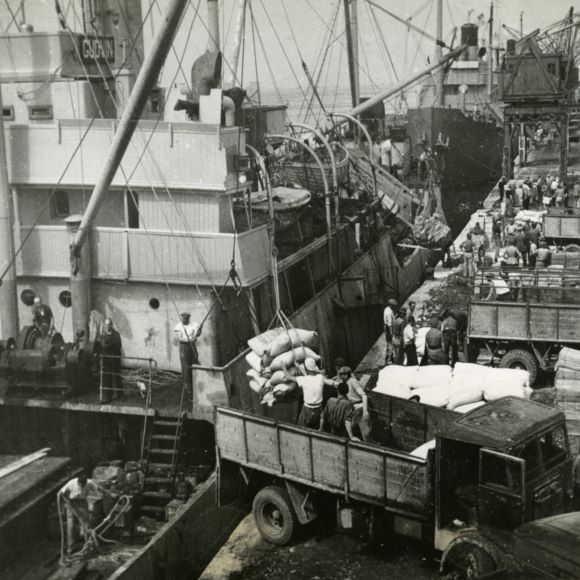
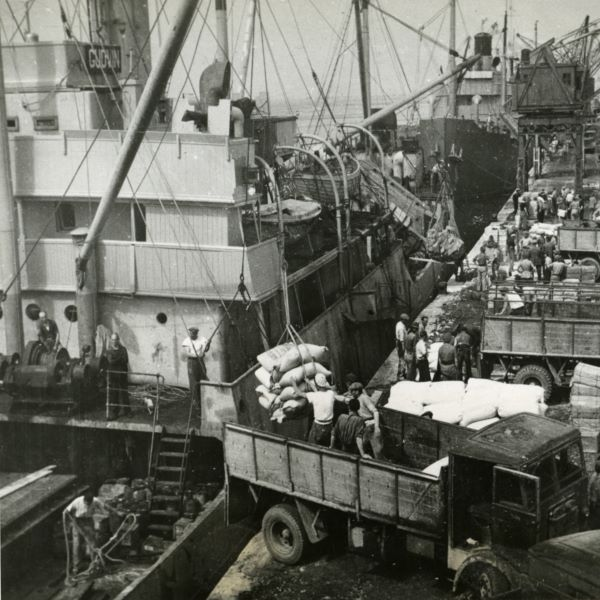
Day 20 added all images, major progress

diff --git a/rod_interactive/rod_game.rb b/rod_interactive/rod_game.rb
@@ -2,10 +2,9 @@
 
 require 'ruby2d'
 
-set width: 580, height: 580, title: "River of Doubt Interactive Game"
+set width: 600, height: 600, title: "River of Doubt Interactive Game"
 
 Image.new('rod_cover.jpg')
-
 
 # Global variables -> changed to GameState class variables
 
@@ -31,46 +30,47 @@ class GameState
 
     STAGES = {
         0 => {
-            text: "THE RIVER OF DOUBT CYOA Press enter to start!",
-            bg: 'rod_cover.jpg',
-            options: [ {label: "Start Game", action: 'start'} ]
+            text: "THE RIVER OF DOUBT CHOOSE YOUR OWN ADVENTURE You will assume the role of Teddy Roosevelt on his journey through the River of Doubt and see if you can do better than he did!",
+            bg: 'rod_cover2.jpg',
+            options: [ {label: "Start Game", action: 's0_start'} ]
         },
         1 => {
-            text: "STAGE 1: Prepping for the trip. You have just lost the reelection and you want to get away.\nYour old friend Father Zahm has asked again about going on a trip to the Amazon rainforest. Thinking it will be a good way to run from the darkness, you accept.\nZahm is offering to make all the preparations himself.\nDo you help him or leave it up to him?",
+            text: "STAGE 1: You have just lost the presidential election and want to get away for a bit. Your old friend Father Zahm has asked again about going on a trip to the Amazon rainforest. Thinking it will be a good way to run from the darkness, you accept.\nZahm is offering to make all the preparations himself.\nDo you help him or leave it up to him?",
             bg: 'loading_boat.jpg',
             options: [ 
-                { label: "Help him pack.", action: 'help' },
-                { label: "Let Zahm do the work.", action: 'no_help' }
+                { label: "Help him pack.", action: 's1_help' },
+                { label: "Let Zahm do the work.", action: 's1_no_help' }
             ]
         },
         2 => {
             text: "STAGE 2: In the Jungle.\nAs the rushing water roars next to you, your group debates how to proceed, as it is taking longer than you thought to make it to your first landmark.",
             bg: 'jungle_1.jpg',
             options: [
-                { label: "Ride the canoes down the river.", action: 'canoe' },
-                { label: "Walk beside the river by foot.", action: 'walk' }
+                { label: "Ride the canoes down the river.", action: 's2_canoe' },
+                { label: "Walk beside the river by foot.", action: 's2_walk' }
             ]
         },
         3 => {
-            text: "STAGE 3: Cinta Larga Tribe Encounter.",
+            text: "STAGE 3: With Rondon's expertise, you encounter signs of the Cinta Large tribe in the jungle. Knowing the dangers they could bring to the group, do you leave a peace offering or increase your pace to leave the area?",
             bg: 'tribe.jpg',
             options: [
-                { label: "Leave a peace offering.", action: 'peace' },
-                { label: "Try to fight them.", action: 'fight' },
-                { label: "Hurry away.", action: 'leave' }
+                { label: "Leave a peace offering.", action: 's3_peace' },
+                { label: "Hurry away quickly.", action: 's3_leave' }
             ]
         },
         4 => {
-            text: "STAGE 4: Simplicio taken by whirlpool.",
+            text: "STAGE 4: Simplicio taken by whirlpool. Do you stop and take the time to look for him? Or do you cut your losses and move on?",
             bg: 'whirlpool.jpg',
             options: [
+                { label: "Look for Simplicio.", action: 's4_look' },
+                { label: "Move on.", action: 's4_move' }
             ]
         },
         5 => {
             text: "STAGE 5: Injured during the trip, you have an infection!",
             bg: 'medicine.jpg',
             options: [
-
+                { label: ""}
             ]
         },
         6 => {
@@ -88,8 +88,8 @@ class GameState
             ]
         },
         8 => {
-            text: "STAGE 8: Made it out of the jungle!",
-            bg: 'escaped.jpg',
+            text: "STAGE 8: Made it out of the jungle alive! However, there are many people who are in disbelief about your journey ",
+            bg: 'escaped_good.jpg',
             options: [
 
             ]
@@ -163,17 +163,21 @@ class GameState
     end
 
     def self.handle_choice(action)
-        if @stage == 0 && action == 'start'
-            next_stage
-        elsif @stage == 1
-            if action == 'help'
-                @hunger -= 40
-                puts "Helped Father Zahm pack and brought more practical food resources"
-            elsif action == 'no_help'
-                puts "Let Father Zahm do all the work... he didn't know what he was getting himself into"
-            end
-            next_stage
+        case action
+        #if @stage == 0 && action == 'start'
+        #    next_stage
+        #elsif @stage == 1
+        when 's1_help'
+            #if action == 'help'
+            @hunger -= 40
+            #puts "Helped Father Zahm pack and brought more practical food resources"
+        when 's1_no_help'
+            #elsif action == 'no_help'
+                #puts "Let Father Zahm do all the work... he didn't know what he was getting himself into"
+            puts "s1_no_help"
+        when 's2_no'
         end
+        next_stage
         ######
     end
             
@@ -213,7 +217,6 @@ end
 #GameState.update_display
 
 
-
 # ---------------------------------------------------------
 
 
@@ -225,21 +228,12 @@ General structure of code:
     - then based on current game state & button clicked, do certain action
     - update statuses as needed
 =end
+
 myGame = GameState.new
 
 #myGame.update_display
 
 GameState.update_display
-
-=begin
-on :key_down do |event|
-    if event.key == 'return'
-        myGame.change_stage
-        myGame.display_state
-
-    end
-end
-=end
 
 on :mouse_down do |event|
     if event.button == :left
@@ -248,9 +242,7 @@ on :mouse_down do |event|
     end
 end
 
-
 # ---------------------------------------------------------
-
 
 # display game
 show
